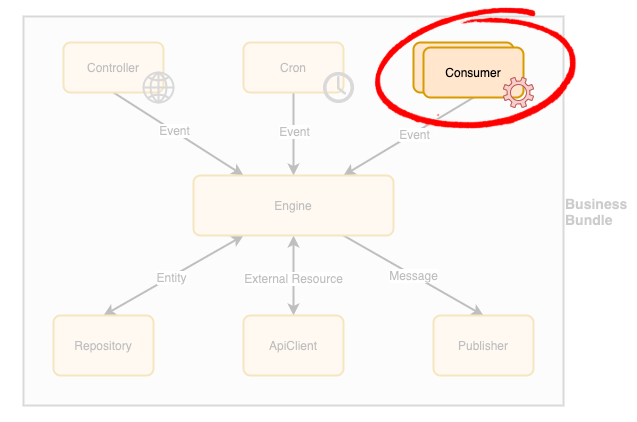
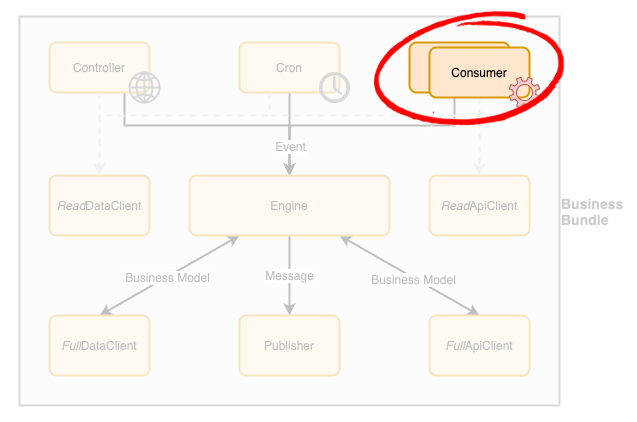
Closes #40 - Updated Business Bundle documentation and images to reflect proper architecture

diff --git a/doc/bundle/Engine.md b/doc/bundle/Engine.md
@@ -7,10 +7,10 @@ The business logic can be triggered via a set of known events coming from variou
  - **Synchronous** requests (via a [Controller](Controller.md))
  - **Asynchronous** requests (via a Consumer) 
 
-Upon receipt of an event, the engine **coordinates several components** (repositories and API clients) to gather the extra data required to handle the event received. 
+Upon receipt of an event, the engine **coordinates several components** (data and API clients) to gather the extra data required to handle the event received. 
 Finally, the result of its processing can be shared using multiple mechanisms:
- - **Persisting data** modifications for future use (via [Repositories](Repository.md))
- - **Calling** external clients or Business Bundles synchronously (via [API clients](ApiClient.md))
+ - **Persisting data** modifications for future use (via [DataClient](DataClient.md))
+ - **Calling** external clients or Business Bundles synchronously (via [ApiClient](ApiClient.md))
  - **Sending asynchronous messages** to other Business Bundle or external clients (via [Publisher](Publisher.md))
 
 The last 2 mechanisms can be used to cleanly trigger other business processes or integrate with 3rd party systems.
@@ -22,15 +22,15 @@ In order to build a **production-grade solution** designed to evolve and adapt t
    - Simplify the adoption of Continuous Integration/Deployment techniques.
    - Concrete implementations must be passed when initializing the engine at runtime.  
    - Components requiring an interface contract:
-     - [Repository](Repository.md)
+     - [DataClient](DataClient.md)
      - [ApiClient](ApiClient.md)
      - [Publisher](Publisher.md)
   
- - **Automated unit tests** for the Engine component must also **mock external components** (e.g. repositories, API clients, publishers)
+ - **Automated unit tests** for the Engine component must also **mock external components** (e.g. data clients, API clients, publishers)
    - Ensure the engine communicates properly with the external components when needed.
  - **Functional tests** for the Engine component *should be* written using a business language in order to be easily understood, validated and modified by business people to ensure they meet business needs. 
    - As such, a BDD framework (e.g. Cucumber, Behat) should be used to define those tests.
- - The engine component must provide a **high-level health check** method that can be **called by a monitoring system** (via the controller) to ensure it is properly working with the set of dependencies it has been configured with (repositories, API clients, publishers). 
+ - The engine component must provide a **high-level health check** method that can be **called by a monitoring system** (via the controller) to ensure it is properly working with the set of dependencies it has been configured with (data clients, API clients, publishers). 
    - This allows any issue that may impact the business to be quickly identified and reported for resolution.
  - Each business method exposed by the engine must provide a **calling context argument** to allow the caller to specify the user who is triggering the business process and the path taken to reach it. Doing so **ensures the integrity** of the Business Bundle by:
    - **Applying authorization rules consistently** just before invoking the business process, no matter how it is being triggered.

diff --git a/doc/bundle/Overview.md b/doc/bundle/Overview.md
@@ -1,7 +1,7 @@
 # CodePrimer Process Modeling
 Once the data model is established, the next step required to define a software-based business is the data processing model. The processing model defines the **set of components that will interact together in order to accomplish various business goals**. 
 
-Although CodePrimer can generate any artifact, its initial implementation is taking **an opinionated view on how processing should be defined and structured**. It lies somewhere between the *monolithic* and *micro service* trends by liberally borrowing from each into an **approach called Business Bundle**.
+Although CodePrimer can generate any artifact, its initial implementation is taking **an opinionated view on how processing should be defined and structured**. It lies somewhere between the *monolithic* and *microservices* trends by liberally borrowing from each into an **approach called Business Bundle**.
 
 ## Business Bundle
 A *Business Bundle* is a set of components interacting together in predictable ways with clear boundaries in order to easily model and implement a business process using the following patterns:
@@ -9,9 +9,9 @@ A *Business Bundle* is a set of components interacting together in predictable w
 - A **[Consumer](Consumer.md)** consumes asynchronous **Messages** and turn them into **Events**.
 - A **[Cron](Cron.md)** produces either **Messages** or **Events** at periodic intervals.
 - An **[Engine](Engine.md)** acts on **Events** to implement **Business Processes**.
-- A **[Repository](Repository.md)** exposes **Entities** to the **Engine** to interact with a **data persistence** layer, such as a database.
+- A **[DataClient](DataClient.md)** exposes an **Interface**  to the **Engine** to interact with a **data persistence** layer, such as a database, in order to retrieve and persist **BusinessModels**.
 - An **[ApiClient](ApiClient.md)** exposes an **Interface** to the **Engine** to interact with **external systems** in synchronous fashion.
-- A **[Publisher](Publisher.md)** allows the **Engine** to trigger **Messages** that can be handled by **other Business Bundles** to trigger their own processing.
+- A **[Publisher](Publisher.md)** allows the **Engine** to trigger **Messages** that can be handled by **the same or other Business Bundles** to trigger their other business processes.
 
 The figure below shows how the various components interact with each other:
 
@@ -22,7 +22,7 @@ More details about each component can be found in the links below:
 - [Controller](Controller.md)
 - [Consumer](Consumer.md)
 - [Cron](Cron.md)
-- [Repository](Repository.md)
+- [DataClient](DataClient.md)
 - [ApiClient](ApiClient.md)
 - [Publisher](Publisher.md)
 
@@ -67,7 +67,7 @@ It allows architects and business analysts to **design business processes around
 ### Data Location
 - *Where is the data located for this process?*
   - **Database** or **filesystem**:
-    - Design and implement a [Repository](Repository.md) to retrieve it via a set of `Entity` elements
+    - Design and implement a [DataClient](DataClient.md) to retrieve it via a set of `Entity` elements
   - **External System**:
     - Design and implement an [ApiClient](ApiClient.md) to retrieve it via `ExternalResource` elements.
 

diff --git a/doc/bundle/Controller.md b/doc/bundle/Controller.md
@@ -13,8 +13,9 @@ In order to build a **production-grade solution**, the following guidelines shou
    - When the business process requested **does not support parallel processing** (e.g. to enforce data integrity).
 - A controller simply exposes a specific business process to the outside world. As such, it had a **very limited scope** when compared to other architectures.
 - Given that the controller exposes a business process to the outside world, it must **assume the call is insecure until proven otherwise**. Therefore, it **must perform any security and access validation checks** before invoking the [Engine](Engine.md).
-- While it may seem overkill or involve an extra overhead to some developers to force the controller to go through the [Engine](Engine.md) rather than manipulating the repository directly, doing so ensures that if the business process invoked can be triggered via other means in the future (e.g. via an asynchronous mean), the same business rules will be applied consistently.
+- While it may seem overkill or involve an extra overhead for some developers to force the controller to go through the [Engine](Engine.md) rather than manipulating the [FullDataClient](DataClient.md) directly, doing so ensures that if the business process invoked can be triggered via other means in the future (e.g. via an asynchronous mean), the same business rules will be applied consistently.
 - Given that a controller is tied to the underlying framework used to implement it, there is **no need to define an interface for this component**.
+- A controller can still uses a [ReadDataClient](DataClient.md) or [ReadApiClient](ApiClient.md) to fetch data needed **to prepare the event** to trigger a business process on the [Engine](Engine.md). 
 - A key aspect of controller automated tests is to **validate that security and access rules are properly implemented** by the controller in order to prevent any data leakage that could impact the business once it is deployed in production.
    - Even if the [Engine](Engine.md) is also responsible for performing access validation, the controller must still do it in order to detect and reject requests earlier in the process, before involving critical resources in our solution. This can greatly help protect against Denial of Service attacks.
    - **When an access violation is detected**, the controller must **trigger a security exception message** (via a publisher) including the source of call in order to reach the monitoring system. This information can then be used as input to **protect the system against further attacks** using strategies such as:

diff --git a/doc/bundle/DataClient.md b/doc/bundle/DataClient.md
@@ -1,0 +1,19 @@
+# Business Bundle - DataClient Component
+![Business Bundle - DataClient](../images/BusinessBundle-DataClient.png)
+
+A DataClient is the component in a [Business Bundle](Overview.md) responsible to interface with an underlying storage engine (e.g. database, cache, filesystem), to persist Business Model objects based on the internal storage, pattern and framework selected (e.g. through the manipulation of entities).
+
+## Guidelines
+In order to build a **production-grade solution**, the following guidelines should be applied to DataClient components design and implementation:
+
+ - A `ReadDataClient` interface should be defined to allow Business Model objects to be fetched from the storage engine.
+   - This interface provides a **read only** access to the storage engine to **other components within the same Business Bundle** in order to allow them to **prepare an event or message** to trigger/send.
+ - A `FullDataClient` interface must be defined as an **extension of the `ReadDataClient`** interface to add persistence (aka write) capabilities to the Business Bundle.
+   - This interface should **only be accessed by the [Engine](Engine.md) component** to ensure business-level consistency and data integrity.
+   - This interface should expose **persistence methods matching the output of the business processes rather than _generic create and update_** methods typically available in CRUD-based solutions. The rationale being that we are operating at the business level, not to trying to reinvent ORM patterns.
+   - **Note**: the actual implementation is free to use the pattern of choice based on the persistence solution selected...  
+ - **Automated tests must be designed against the DataClient interfaces** and executed against the concrete classes
+   - It ensures a concrete class is fully compatible with the business contract defined by the interface
+   - It ensures the concrete class is truly interchangeable from a business point of view.
+ - A DataClient component must provide a **health check** method that can be **called by the [Engine](Engine.md)**'s own health check to ensure this component is working as expected in production in order to quickly **detect failures with the underlying storage engine**. 
+    - This allows any issue that may impact the business to be quickly identified and reported for resolution.

diff --git a/doc/bundle/ApiClient.md b/doc/bundle/ApiClient.md
@@ -6,7 +6,11 @@ An ApiClient is a component in a [Business Bundle](Overview.md) responsible to s
 ## Guidelines
 In order to build a **production-grade solution**, the following guidelines should be applied to ApiClient components design and implementation:
 
- - An ApiClient should **only be accessed by the [Engine](Engine.md) component** to ensure business-level consistency.
+ - A `ReadApiClient` interface should be defined to allow Business Model objects to be fetched from an external system.
+   - This interface provides a **read only** access to external systems to **other components within the same Business Bundle** in order to allow them to **prepare an event or message** to trigger/send.
+ - A `FullApiClient` interface must be defined as an **extension of the `ReadApiClient`** interface to add push (aka write) capabilities towards external systems to the Business Bundle.
+   - This interface should **only be accessed by the [Engine](Engine.md) component** to ensure business-level consistency and data integrity.
+   - This interface should expose **push methods matching the output of the business processes**. 
  - An **interface must be defined for each ApiClient** to expose list of operations needed from the business point of view for interacting with the external system.
  - An implementation of the ApiClient interface **should use the adapter pattern** to interact with a specific external system.
  - This approach **enforces a good decoupling** of the [Business Bundle](Overview.md) being developed and external systems

diff --git a/doc/bundle/Cron.md b/doc/bundle/Cron.md
@@ -11,5 +11,6 @@ In order to build a **production-grade solution**, the following guidelines shou
 
 - The cron component must detect if another instance of the same task is still running when it starts. 
   - If so, it should log an error with the monitoring system (via the [Engine](Engine.md)) and abort its execution to prevent stability issues that may arise from having multiple tasks executed in parallel.
-- A cron component is expected to interact with a [Repository](Repository.md) component in order to extract information about the data that needs to be processed.
-  - A typical example is to retrieve a list of elements to process.  
+- A cron component is expected to interact with a [ReadDataClient](DataClient.md) or a [ReadApiClient](ApiClient.md) component in order to fetch data that needs to be processed.
+  - The fetched data is then used to create the messages and/or event to trigger the actually business process.
+  - A typical example is to retrieve a list of elements that needs to be processed.  
